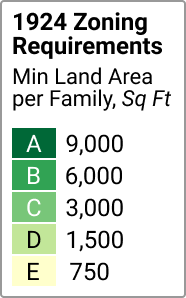
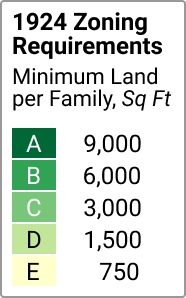
updated legend to 1950s

diff --git a/script.js b/script.js
@@ -166,7 +166,7 @@ var opacity = L.control({position: 'topright'});
 opacity.onAdd = function (map) {
   var div = L.DomUtil.create('div', 'control-custom range');
   div.innerHTML = '<h4>Opacity: 1924 zones</h4>';
-  div.innerHTML += '<input id="rangeSlider" type="range" min="0" max="100" value="90">';
+  div.innerHTML += '<input id="rangeSlider" type="range" min="0" max="100" value="70">';
 
   // Make sure the map doesn't move with slider change
   L.DomEvent.disableClickPropagation(div);

diff --git a/README.md b/README.md
@@ -4,12 +4,14 @@ Interactive Map: Exclusionary Zoning in West Hartford CT, 1924-present, includin
 ## Live map
 https://ontheline.github.io/otl-zoning-west-hartford/index-caption.html
 
+See related repo https://github.com/ontheline/otl-zoning-metro-hartford
+
 ## Credits
 Interactive map developed by Jack Dougherty and Ilya Ilyankou / Picturedigits for On The Line, http://OnTheLine.trincoll.edu, Trinity College, Hartford CT
 
 Replaces 2012 UConn Library MAGIC Google Map http://magic.lib.uconn.edu/otl/dualcontrol_zoning_westhartford.html
 
-## Sources (see also subfolders)
+## Historical sources
 Whitten, Robert Harvey. *West Hartford Zoning*. West Hartford CT: Zoning Commission, 1924, http://magic.lib.uconn.edu/magic_2/raster/37840/hdimg_37840_155_1924_unkn_CSL_1_p.pdf (scan of CT State Library edition), or https://www.google.com/books/edition/West_Hartford_Zoning/bdKsAAAAMAAJ.
 
 1924 Tentative Zoning Map, West Hartford, CT. Zoning Commission, Town of West Hartford. Scanned from CT State Library, http://www.worldcat.org/oclc/830321212. Georectified at https://mapwarper.net/maps/56736
@@ -40,12 +42,13 @@ The original 1924 JPG map was georeferenced using [QGIS Georeferencer](https://d
 
 Shapefiles for use and area districts were manually created in QGIS. They are available from `shapefiles/` folder, as well as GeoJSONS (see `geojson/` folder).
 
-### Notes
+## Design notes
+* Legend created with https://www.figma.com/file/7JitgyYxiT3xR3fyoZttKb/otl-zoning-graphics
 * Western part of West Hartford is rural in 1924, with few roads and intersections that can be reliably used for georeferencing.
 * Each polygon contains *acres* property with its area expressed in acres (rounded to 1 decimal).
 * PDFs with semi-transparent maps were created to assess the accuracy of the output.
 
-## What percent of total land did WH assign to zones A-E in 1924?
+## What percentage of total land did WH assign to zones A-E in 1924?
 1. Digitize wh-area-districts-1924-whitten.geojson, with acres, in QGIS Georeferencer.
 2. In Mapshaper.org, export as CSV, and calculate pivot table for acres.
 
@@ -58,7 +61,7 @@ Shapefiles for use and area districts were manually created in QGIS. They are av
 | E                     | 109             | 1%      |
 | Total                 | 14339           | 100%    |
 
-## What percent of total residential land did WH assign to zones A-E in 1924?
+## What percentage of total residential land did WH assign to zones A-E in 1924?
 In 1924, no one knew exactly which land would be developed into residential, so we use 2020 parcel development to estimate total residential land in the future.
 
 1. Place West Hartford 2020 parcels in GeoJSON.io with OpenStreetMap overlay, and manually remove non-residential parcels (schools, parks, cemeteries, streams, industrial areas, store-only areas) to create: wh-approx-res-parcels-2020.geojson. This is *approximate* because I could not easily remove roads, commercial portions of mixed areas, etc., so it overestimates the amount of potential residential land.
@@ -86,7 +89,7 @@ $ -join area-districts
 
 Interpretation: While A and B differ in the two tables above, the combined A+B total is about the same (84% vs. 81%).
 
-## What percent of *undeveloped* land did WH assign to zones A-E in 1924?
+## What percentage of *undeveloped* land did WH assign to zones A-E in 1924?
 Since about 80% of total estimated residential land was zoned A-B in 1924, we can assume that the percent of *undeveloped* land that year was higher than 80%. Answering this more precisely requires parcel data with "year built" field to separate pre-1924 vs post-1924 land. Sent request in mid-April 2021 to WH CIO for GIS parcel shapefile with year-built data.
 
 See also http://gis.vgsi.com/westhartfordct/Parcel.aspx?Pid=2 with these fields:
